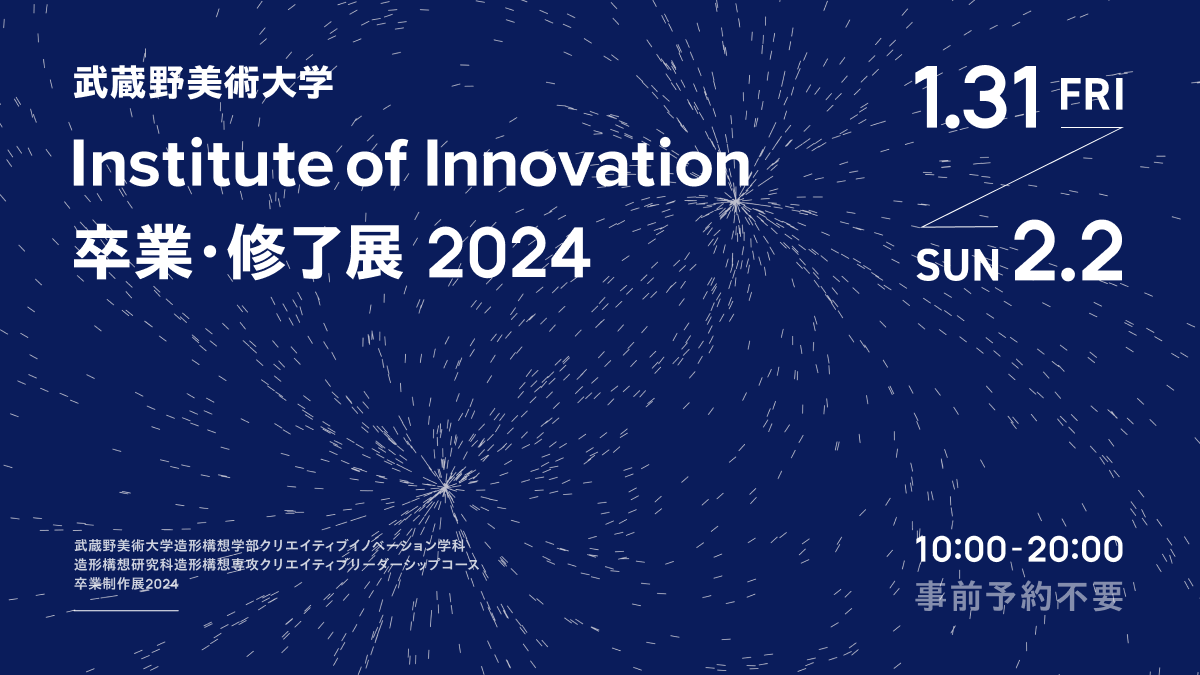
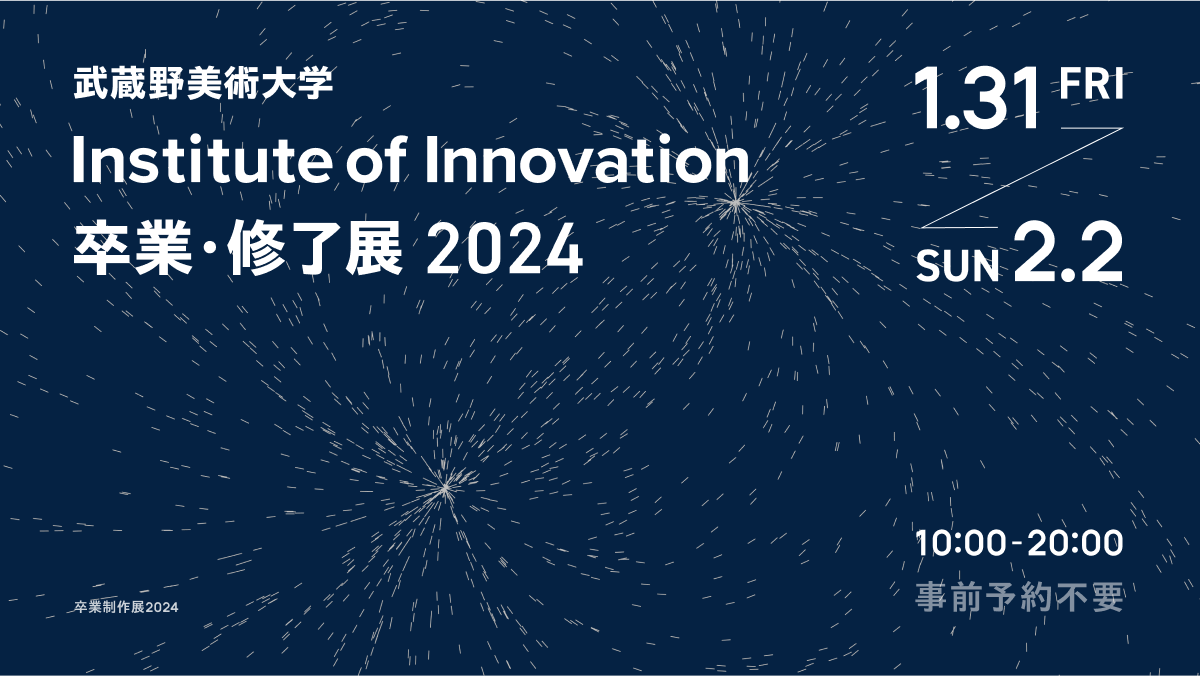
Fix Colors and texts

diff --git a/src/components/OverviewSection.tsx b/src/components/OverviewSection.tsx
@@ -23,14 +23,14 @@ const overviewSectionStyles = sva({
       pb: "128px",
       maxWidth: "1980px",
       mx: "auto",
-      color: "rgba(0, 4, 128, 1)",
+      color: "text",
       _before: {
         content: '""',
         position: "absolute",
         display: "block",
         width: "100%",
         height: "1px",
-        background: "rgba(0, 4, 128, 1)",
+        background: "text",
         gridColumn: "1 / span 5",
         mdDown: {
           gridColumn: "span 1",
@@ -96,7 +96,7 @@ const overviewSectionStyles = sva({
       gap: "10px",
       alignSelf: "stretch",
       height: "32px",
-      borderBottom: "1px solid rgba(0, 4, 128, 1)",
+      borderBottom: "1px solid currentColor",
       width: "fit-content",
       textTransform: "uppercase",
       fontSize: "14px",
@@ -117,16 +117,21 @@ export const OverviewSection: React.FC = () => {
     <section className={style.container} id="overview">
       <div className={style.overviewSection}>
         <h2 className={style.title}>Overview</h2>
-        <p className={style.text}>
-          {`武蔵野美術大学\n造形構想学部\nクリエイティブイノベーション学科
-造形構想研究科造形構想専攻\nクリエイティブリーダーシップコース
-卒業制作展 2024`}
+        <p
+          className={cx(
+            style.text,
+            css({
+              fontWeight: "800",
+            })
+          )}
+        >
+          {`武蔵野美術大学\nInstitute of Innovation\n卒業制作展 2024`}
         </p>
         <p
           className={cx(
             style.subtext,
             css({
-              mt: "64px",
+              mt: "40px",
               width: "50%",
               mdDown: {
                 width: "100%",
@@ -135,7 +140,7 @@ export const OverviewSection: React.FC = () => {
             })
           )}
         >
-          {`＊本展は、クリエイティブイノベーション学科、大学院造形構想研究科クリエイティブリーダーシップコースの制作研究の卒業・修了展となります。 クリエイティブイノベーション学科、大学院造形構想研究科クリエイティブリーダーシップコース以外の学科・コースの展示は、鷹の台キャンパスで行います。`}
+          {`＊本展は、造形構想学部クリエイティブイノベーション学科、大学院造形構想研究科クリエイティブリーダーシップコースの制作研究の卒業・修了展となります。 クリエイティブイノベーション学科、大学院造形構想研究科クリエイティブリーダーシップコース以外の学科・コースの展示は、鷹の台キャンパスで行います。`}
         </p>
       </div>
 
@@ -170,7 +175,7 @@ export const OverviewSection: React.FC = () => {
             })
           )}
         >
-          {`〒162-0843 東京都新宿区市谷田町１丁目４`}
+          {`〒162-0843 東京都新宿区市谷田町1丁目4`}
         </p>
         <Link
           className={style.locationLink}

diff --git a/src/components/Footer.tsx b/src/components/Footer.tsx
@@ -16,7 +16,7 @@ const footerStyles = sva({
   ],
   base: {
     wrapper: {
-      background: "rgba(5, 7, 64, 1)",
+      background: "background",
       color: "rgba(255, 255, 255, 1)",
     },
     container: {
@@ -119,7 +119,7 @@ export const Footer: React.FC = () => {
           >{`Musashino Art Univ.\nInstitute of Innovation`}</p>
           <h2
             className={style.text}
-          >{`武蔵野美術大学造形構想学部クリエイティブイノベーション学科\n造形構想研究科造形構想専攻クリエイティブリーダーシップコース卒業制作展 2024`}</h2>
+          >{`武蔵野美術大学 Institute of Innovation 造形構想学部クリエイティブイノベーション学科\n大学院造形構想研究科造形構想専攻クリエイティブリーダーシップコース卒業制作展 2024`}</h2>
 
           <div className={style.socialContainer}>
             <a

diff --git a/src/app/layout.tsx b/src/app/layout.tsx
@@ -35,7 +35,7 @@ const notoSansJP = Noto_Sans_JP({
 });
 
 export const metadata: Metadata = {
-  title: "武蔵野美術大学 Institute of Innovation 卒業・修了展 2024",
+  title: "武蔵野美術大学 CI・CL卒業・修了展 2024",
   description:
     "武蔵野美術大学造形構想学部クリエイティブイノベーション学科 造形構想研究科造形構想専攻クリエイティブリーダーシップコース 卒業制作展 2024",
   openGraph: {
@@ -66,7 +66,7 @@ export default function RootLayout({
       <body
         className={cx(
           css({
-            background: "rgba(5, 7, 64, 1)",
+            background: "background",
           }),
           `${basicallyASansSerif.variable} ${notoSansJP.variable}`
         )}

diff --git a/src/components/TopSection.tsx b/src/components/TopSection.tsx
@@ -156,7 +156,7 @@ export const TopSection: React.FC = () => {
           {`MUSASHINO ART UNIV\nINSTITUTE OF INNOVATION`}
         </p>
         <p className={style.topHeaderContainerSubtitle}>
-          {`武蔵野美術大学造形構想学部クリエイティブイノベーション学科\n造形構想研究科造形構想専攻クリエイティブリーダーシップコース`}
+          {`武蔵野美術大学造形構想学部クリエイティブイノベーション学科 CI\n造形構想研究科造形構想専攻クリエイティブリーダーシップコース CL`}
         </p>
       </FadeIn>
       <FadeIn className={style.topTitleContainer} delay={3} duration={3}>

diff --git a/src/components/IntroductionSectionTitle.tsx b/src/components/IntroductionSectionTitle.tsx
@@ -1,12 +1,19 @@
 "use client";
 
 import { motion } from "framer-motion";
+import { token } from "../../styled-system/tokens";
 
 export const IntroductionSectionTitle: React.FC = () => {
   const props = {
-    initial: { opacity: 0, y: 20 },
-    whileInView: { opacity: 1 },
-    transition: { duration: 1.5, delay: 0 },
+    initial: { opacity: 0, y: 20, color: "rgba(0, 4, 128, 1)" },
+    whileInView: { opacity: 1, color: token("colors.text") },
+    transition: {
+      duration: 1.5,
+      delay: 0,
+      color: {
+        duration: 0.8,
+      },
+    },
     viewport: { once: true },
   };
 

diff --git a/src/components/LoadingAnimation.tsx b/src/components/LoadingAnimation.tsx
@@ -17,7 +17,7 @@ export const LoadingAnimation: React.FC = () => {
           left: 0,
           width: "100%",
           height: "100%",
-          background: "rgba(5, 7, 64, 1)",
+          background: "#002243",
           zIndex: 9999,
           color: "white",
           pointerEvents: "none",
@@ -38,7 +38,7 @@ export const LoadingAnimation: React.FC = () => {
         left: 0,
         width: "100%",
         height: "100%",
-        background: "rgba(5, 7, 64, 1)",
+        background: "#002243",
         zIndex: 9999,
         color: "white",
         pointerEvents: "none",

diff --git a/src/components/VisualViewer.tsx b/src/components/VisualViewer.tsx
@@ -9,7 +9,7 @@ const visualViewerStyle = cva({
     position: "relative",
     width: "100%",
     height: "100%",
-    background: "rgba(5, 7, 64, 1)",
+    background: "#002243",
     userSelect: "none",
 
     "& iframe": {
@@ -25,9 +25,9 @@ const visualViewerStyle = cva({
       left: 0,
       width: "100%",
       height: "100%",
-      background: "rgba(5, 7, 64, 1)",
+      background: "#002243",
       zIndex: 1,
-      mixBlendMode: "screen",
+      mixBlendMode: "lighten",
     },
     "&:after": {
       content: '""',

diff --git a/src/components/CountdownSection.tsx b/src/components/CountdownSection.tsx
@@ -14,14 +14,14 @@ const countDownSectionStyles = sva({
       pb: "172px",
       maxWidth: "1980px",
       mx: "auto",
-      color: "rgba(0, 4, 128, 1)",
+      color: "text",
       _before: {
         content: '""',
         display: "block",
         gridColumn: "1 / span 2",
         width: "80%",
         height: "1px",
-        background: "rgba(0, 4, 128, 1)",
+        background: "text",
         mdDown: {
           gridColumn: "span 1",
           width: "1px",

diff --git a/panda.config.ts b/panda.config.ts
@@ -36,6 +36,17 @@ export default defineConfig({
         },
       },
       tokens: {
+        colors: {
+          background: {
+            value: "#002243",
+          },
+          text: {
+            value: "rgb(12, 43, 116)",
+          },
+          text60: {
+            value: "rgba(12, 43, 116, 0.6)",
+          },
+        },
         fontSizes: {
           extraSmall: {
             value: "12px",

diff --git a/src/components/IntroductionImages.tsx b/src/components/IntroductionImages.tsx
@@ -215,7 +215,7 @@ export const CarouselItem: React.FC<CarouselItemProps> = ({
         left: 0,
         width: "100%",
         height: "100%",
-        background: "rgba(0, 4, 128, 0.6)",
+        background: "text60",
         zIndex: 10,
         mixBlendMode: "screen",
       })}

diff --git a/src/components/IntroductionSection.tsx b/src/components/IntroductionSection.tsx
@@ -20,7 +20,7 @@ const introductionSectionStyles = sva({
       pb: "0px",
       maxWidth: "1920px",
       mx: "auto",
-      color: "rgba(0, 4, 128, 1)",
+      color: "text",
       mdDown: {
         pt: "92px",
         pb: "0px",
